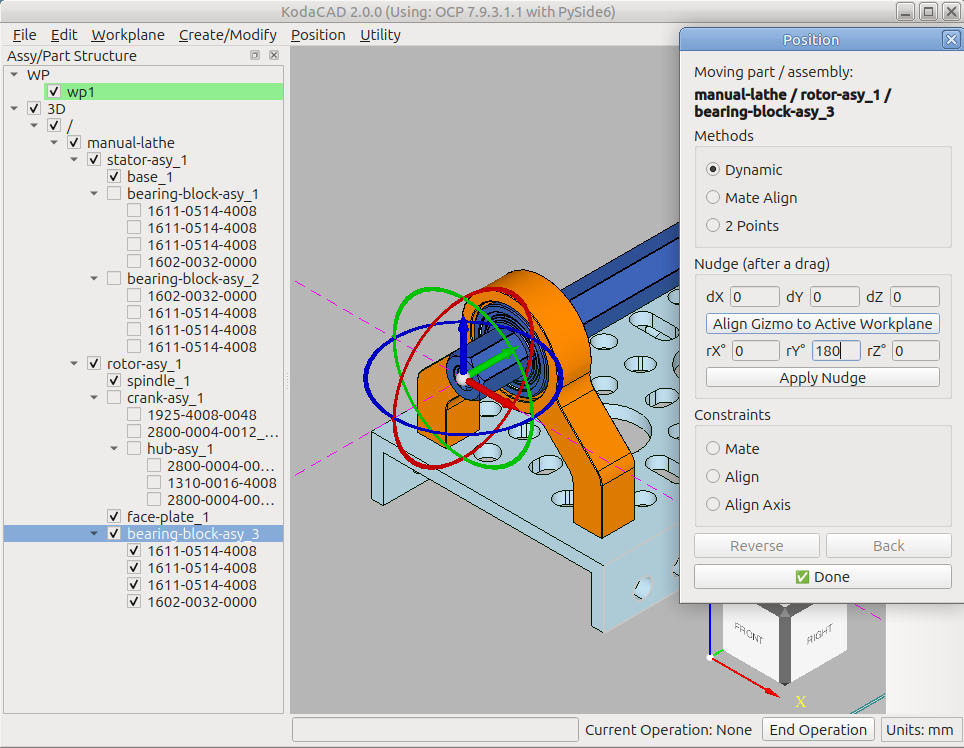
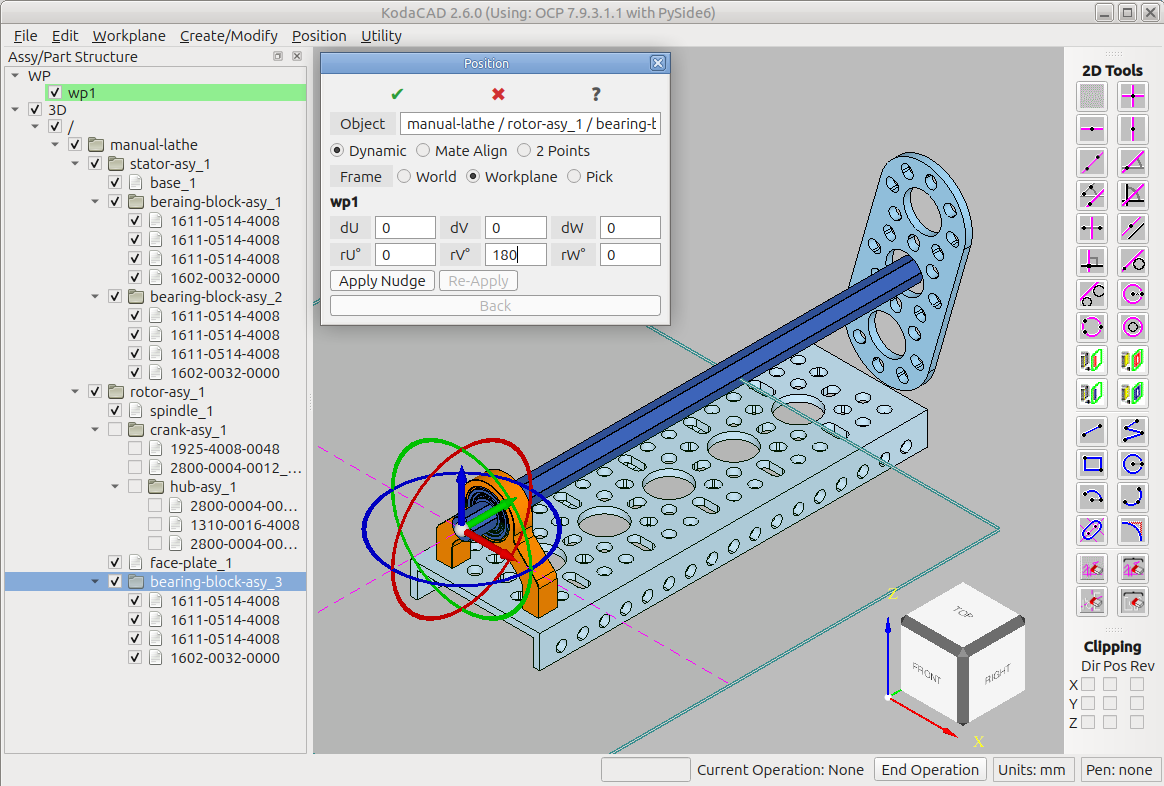
update lathe tutorial to show new position dialog

diff --git a/tutorials/lathe/README.md b/tutorials/lathe/README.md
@@ -166,16 +166,15 @@ Select `bearing-block-asy_3`, then **Position -> Part/Asy**.
 * Choose method **Dynamic**.
 * Set **Frame** to **Workplane** -- the gizmo gets relocated from its
   default location to the origin of the active workplane.
-* Enter `180` in the **rY** field, then **Apply Nudge** to preview the
+* Enter `180` in the **rV°** field, then **Apply Nudge** to preview the
   rotation.
 * If it looks wrong, **Back** and try again; if it looks right,
   continue.
 
 ![Dynamic Nudge](imgs/nudge.png)
 
-After the nudge, the manipulator resets to its default position and
-orientation. Use one of its handles to move the part in Y, toward the
-center of the assembly, then click **✔** (Done) to commit.
+After the nudge, use the green handle on the manipulator to move the part
+in Y, toward the center of the assembly, then click **✔** (Done) to commit.
 
 ![Move complete](imgs/bb3-moved.png)
 
